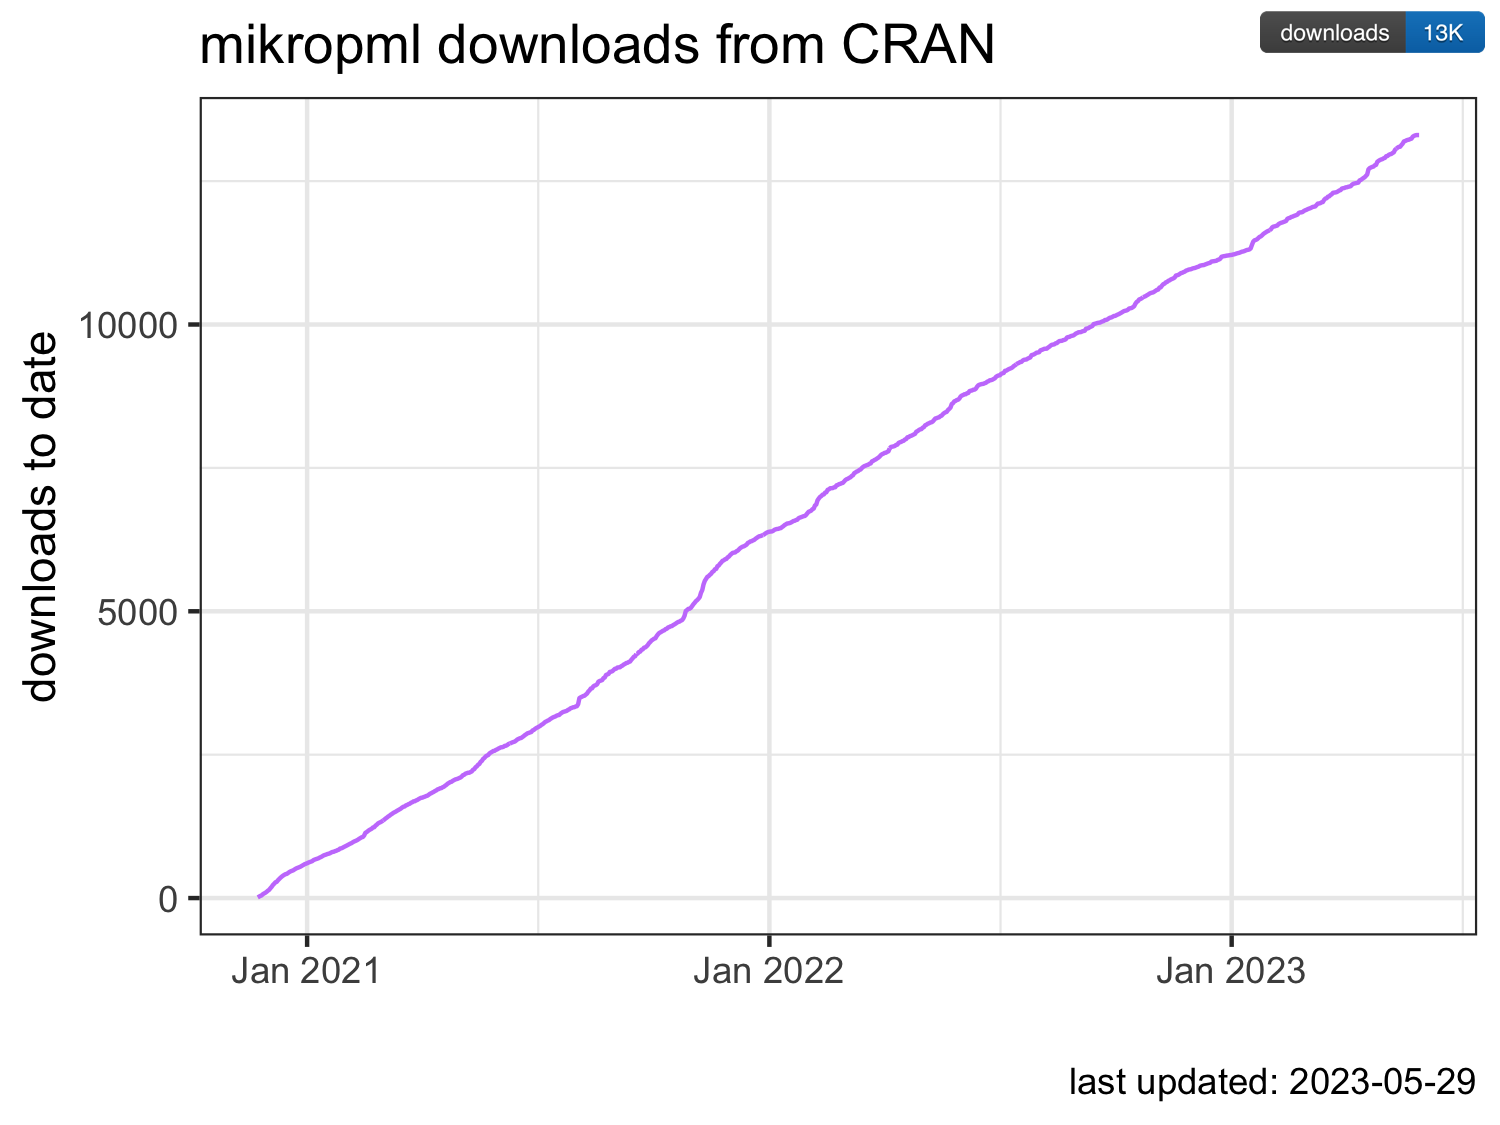
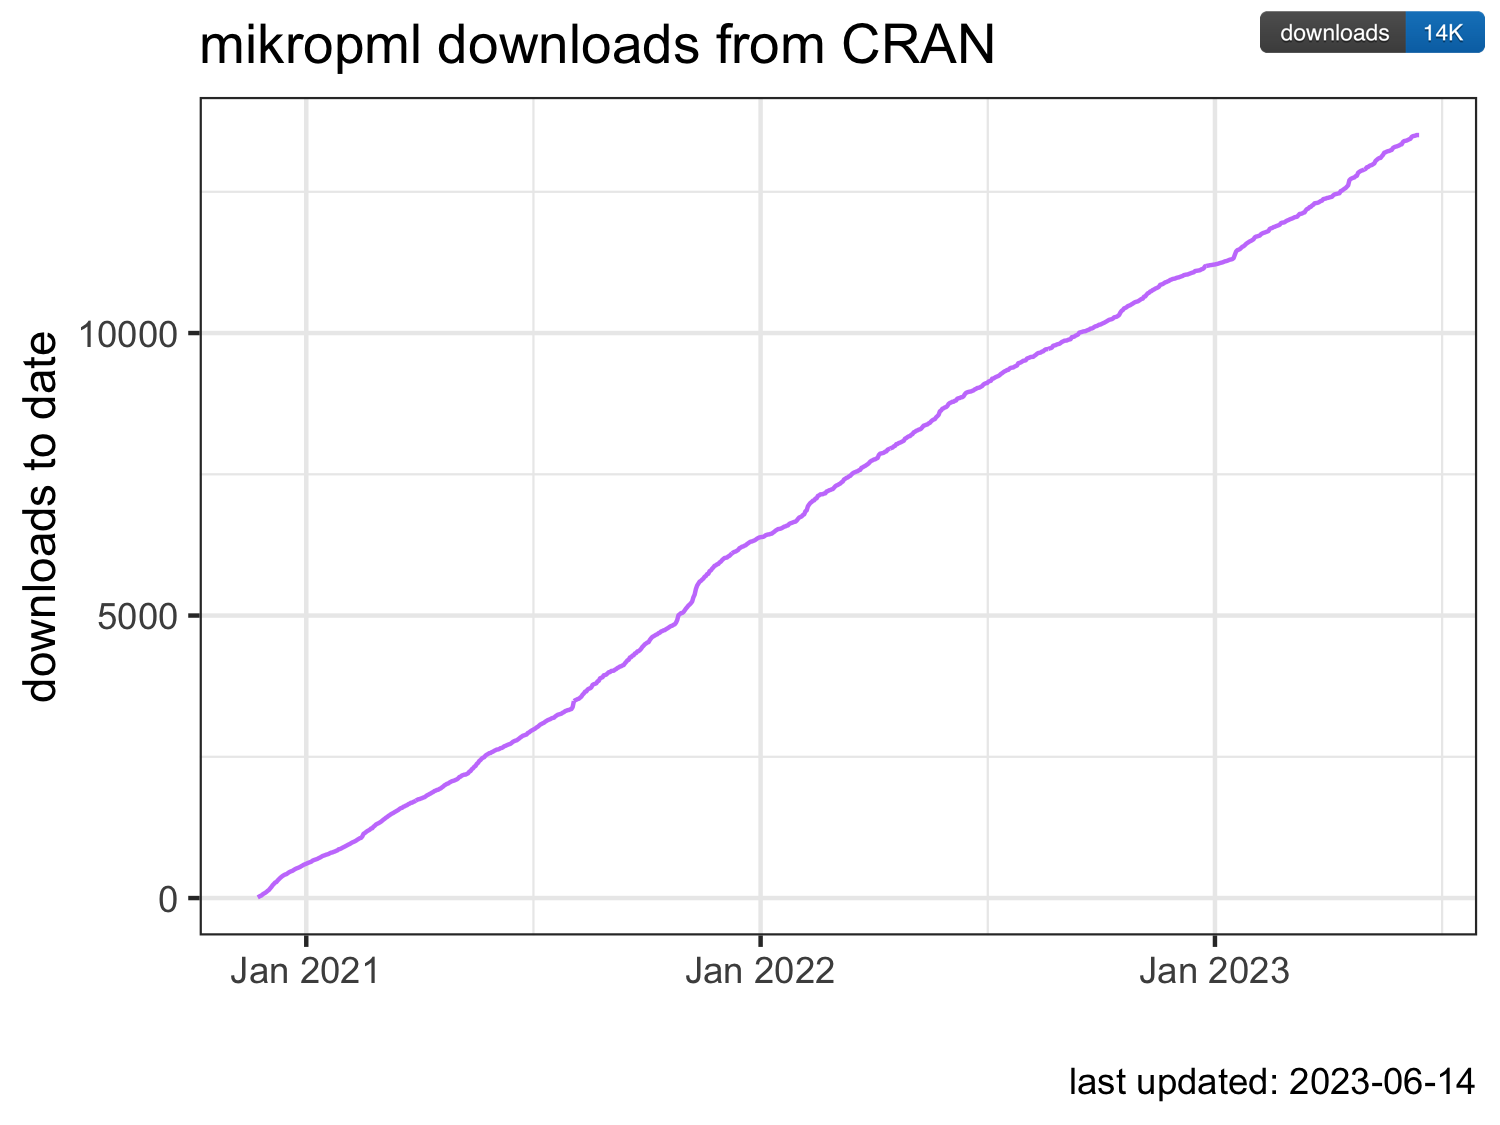
Add version w/o badge

diff --git a/README.md b/README.md
@@ -18,8 +18,6 @@ library(glue)
 library(magick)
 library(rsvg)
 library(tidyverse)
-#> Warning: package 'purrr' was built under R version 4.1.2
-#> Warning: package 'stringr' was built under R version 4.1.2
 ```
 
 ## Download the downloads
@@ -31,12 +29,12 @@ downloads <- cran_downloads(package = "mikropml",
 write_csv(downloads, here::here('data', 'downloads.csv'))
 tail(downloads)
 #>           date count  package cum_count
-#> 913 2023-05-24    34 mikropml     13275
-#> 914 2023-05-25    14 mikropml     13289
-#> 915 2023-05-26     9 mikropml     13298
-#> 916 2023-05-27     5 mikropml     13303
-#> 917 2023-05-28     0 mikropml     13303
-#> 918 2023-05-29     0 mikropml     13303
+#> 929 2023-06-09    13 mikropml     13484
+#> 930 2023-06-10     5 mikropml     13489
+#> 931 2023-06-11     5 mikropml     13494
+#> 932 2023-06-12    10 mikropml     13504
+#> 933 2023-06-13     0 mikropml     13504
+#> 934 2023-06-14     0 mikropml     13504
 ```
 
 ## Get the badge
@@ -69,3 +67,10 @@ ggdraw() +
 ```
 
 ![](figures/plot-downloads-time-1.png)<!-- -->
+
+``` r
+ggdraw() +
+    draw_plot(downloads_plot)
+```
+
+![](figures/plot-downloads-time_no-badge-1.png)<!-- -->
